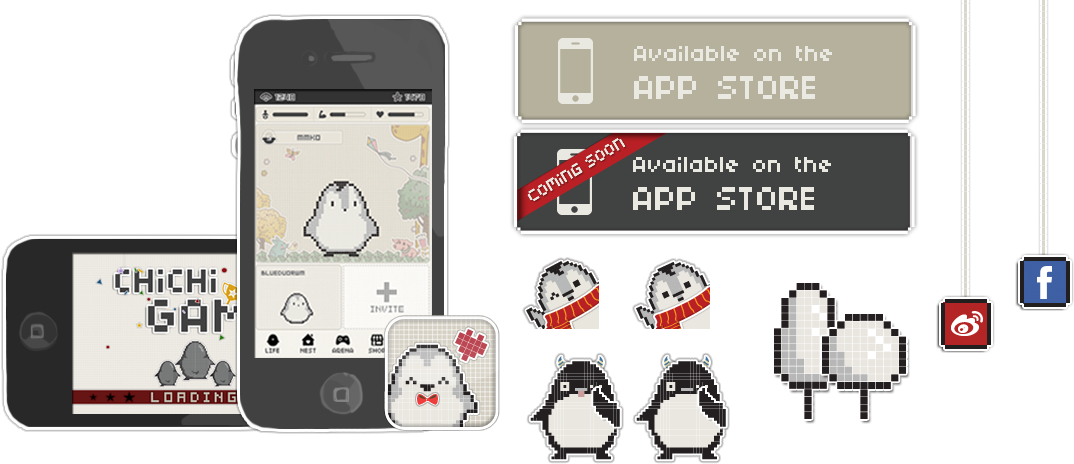
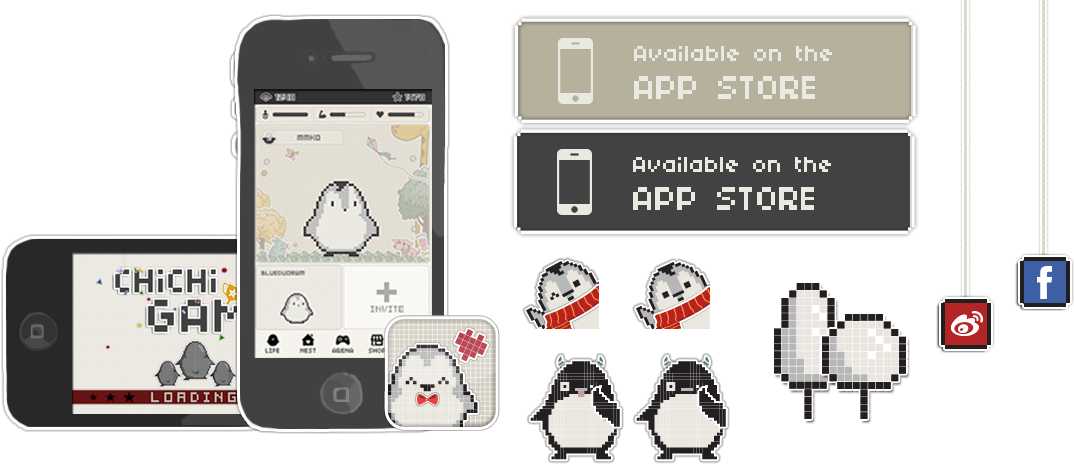
add link

Changed region(s): [[0.4609, 0.2716, 0.6145, 0.4828]]

diff --git a/public/index.html b/public/index.html
@@ -25,7 +25,7 @@
 	    <div class="pet_2"></div>
 	  </div>
 	  <div class="download_btn">
-	    <!-- <a href="#"></a> -->
+	  	<a href="https://itunes.apple.com/app/i-love-chichi/id640032696"></a>
 	    <div class="tree"></div>
 		<div id="chichi_slip">
 		</div>
